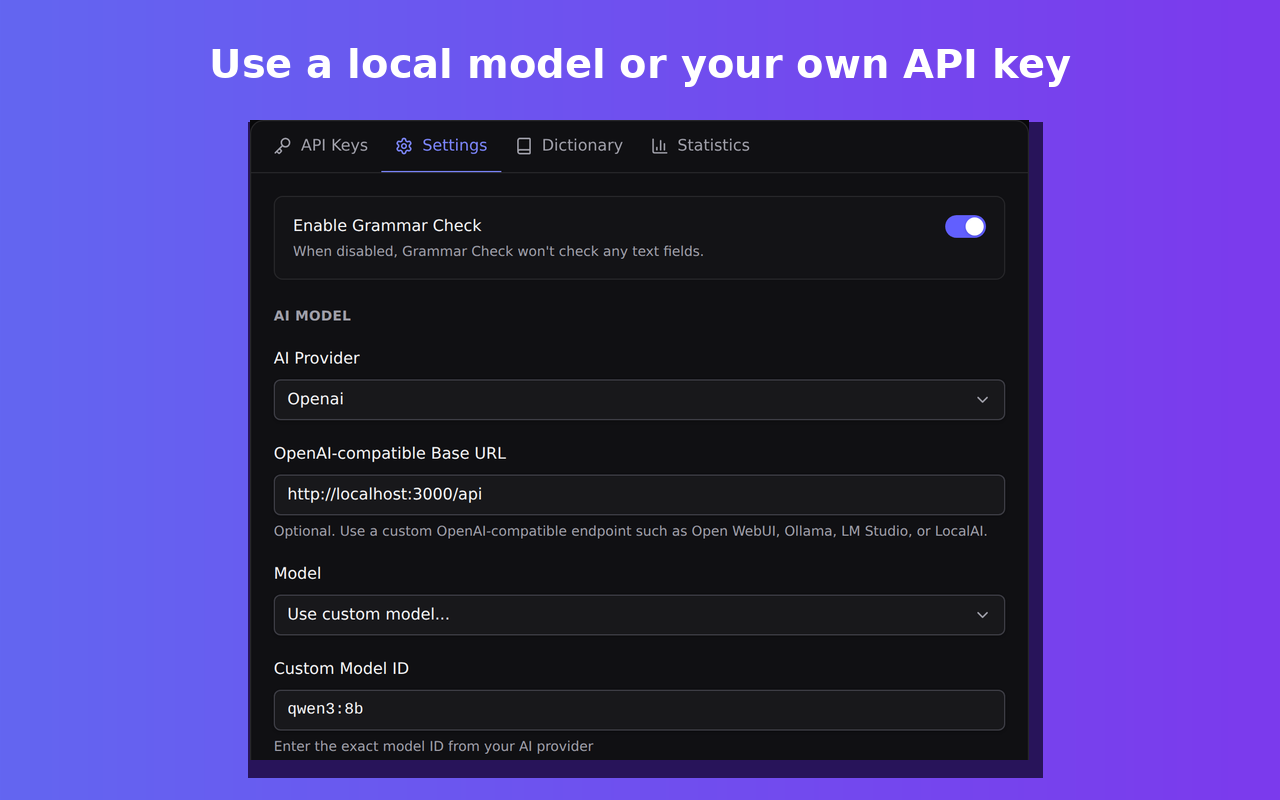
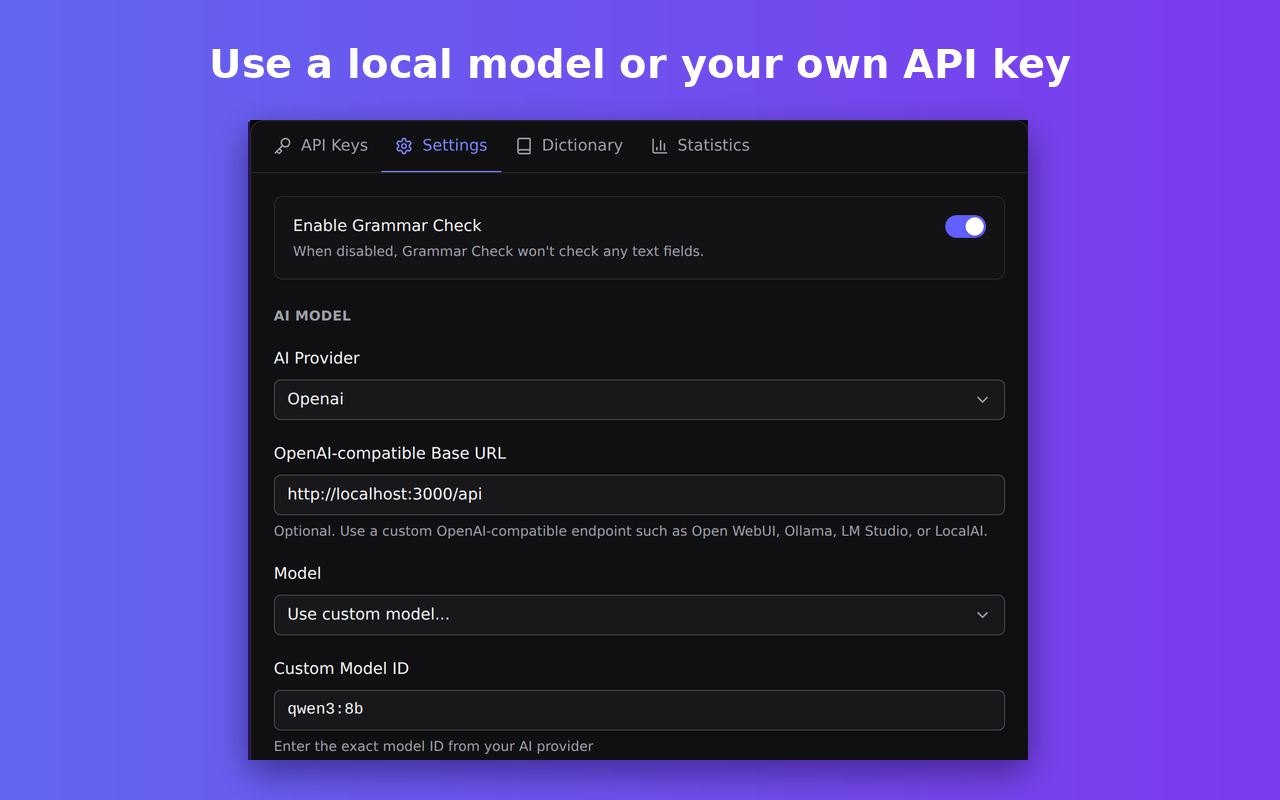
feat(store-listing): update features and add custom instructions

Changed region(s): [[0.1875, 0.1562, 0.8125, 1.0]]

diff --git a/docs/store-listing.md b/docs/store-listing.md
@@ -24,7 +24,9 @@ USE A LOCAL MODEL OR YOUR OWN KEY
 FEATURES
 • Real-time underlines in text areas, rich-text editors, and text inputs
 • One-click fixes with a short explanation for every suggestion
-• Rewrite menu: select text to Formalize, make Friendly, Shorten, Proofread, or Translate it
+• Rewrite menu: select text to Formalize, make Friendly, Shorten, Humanize, Proofread, or Translate it, preview the result, then replace the selection in one click
+• Custom instructions: tell the AI how you write, e.g. "Use British spelling" or "Keep a casual tone"; applied to both checks and rewrites
+• See which AI model checked your text, right in the suggestion panel
 • Personal dictionary for names and jargon
 • Keyboard shortcut: Ctrl+Shift+G (Cmd+Shift+G on Mac)
 • Dark mode
